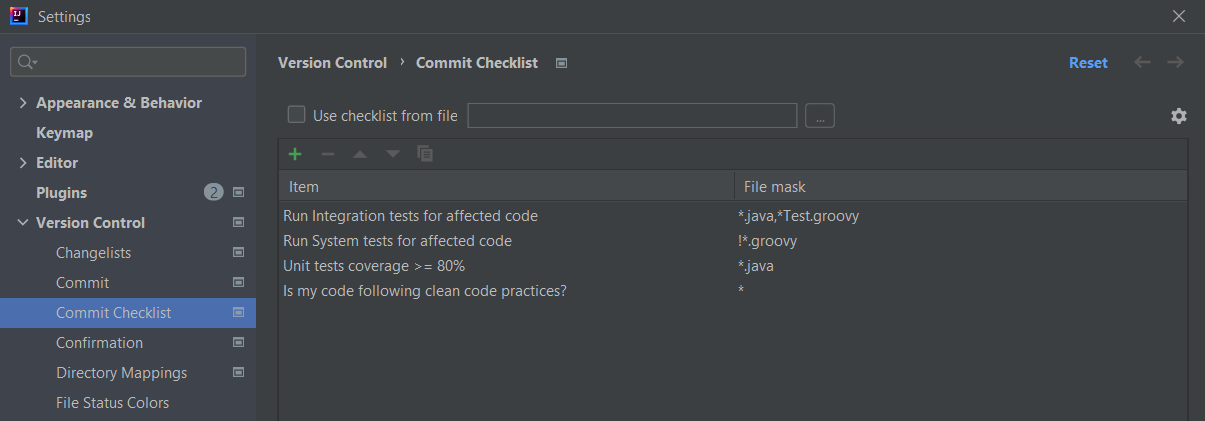
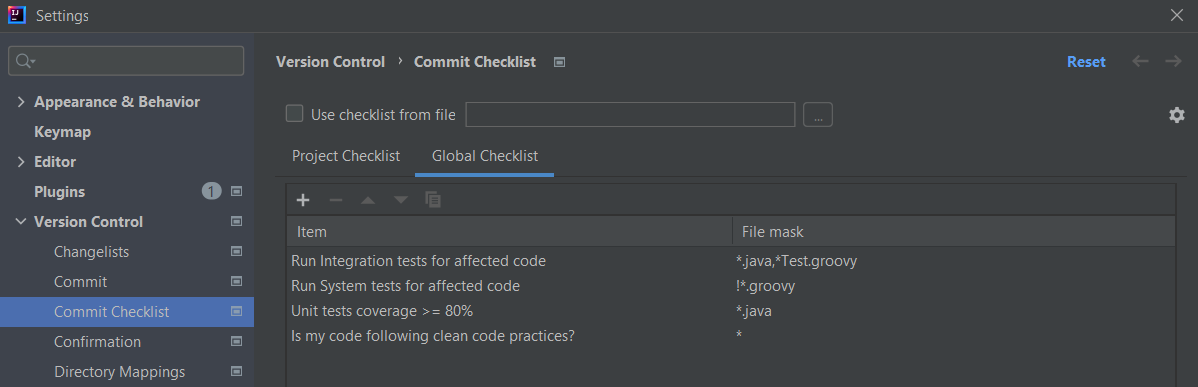
- Use global checklist when displaying items - Add tooltip to tabs - Update version, images, descriptions

diff --git a/src/main/java/brq/intellij/plugins/commit/checklist/settings/ui/SettingsTable.java b/src/main/java/brq/intellij/plugins/commit/checklist/settings/ui/SettingsTable.java
@@ -12,15 +12,14 @@ import java.util.stream.IntStream;
 
 import static brq.intellij.plugins.commit.checklist.settings.ui.EditableColumn.Column.FILE_MASK;
 import static brq.intellij.plugins.commit.checklist.settings.ui.EditableColumn.Column.VALUE;
+import static brq.intellij.plugins.commit.checklist.settings.ui.SettingsTable.Type.PROJECT;
 import static java.util.stream.Collectors.toList;
 
 public class SettingsTable extends TableModelEditor<MessageItem> {
-    private final String title;
     private final Type type;
 
-    public SettingsTable(String title, Type type, ColumnInfo @NotNull [] columns, @NotNull CollectionItemEditor<MessageItem> itemEditor, @NotNull @Nls(capitalization = Nls.Capitalization.Sentence) String emptyText) {
+    public SettingsTable(Type type, ColumnInfo @NotNull [] columns, @NotNull CollectionItemEditor<MessageItem> itemEditor, @NotNull @Nls(capitalization = Nls.Capitalization.Sentence) String emptyText) {
         super(columns, itemEditor, emptyText);
-        this.title = title;
         this.type = type;
     }
 
@@ -31,18 +30,22 @@ public class SettingsTable extends TableModelEditor<MessageItem> {
                 .collect(toList());
     }
 
+    boolean isProjectTable() {
+        return type == PROJECT;
+    }
+
     public String getTitle() {
-        return title;
+        return type.getTitle();
     }
 
-    public Type getType() {
-        return type;
+    public String getTooltip() {
+        return type.getTooltip();
     }
 
-    public static SettingsTable createTable(String title, Type type, List<MessageItem> checklist) {
+    public static SettingsTable createTable(Type type, List<MessageItem> checklist) {
         final ColumnInfo[] columns = getColumns();
         SettingsTableEditor editor = new SettingsTableEditor();
-        SettingsTable table = new SettingsTable(title, type, columns, editor, "");
+        SettingsTable table = new SettingsTable(type, columns, editor, "");
         checklist.forEach(i -> table.getModel().addRow(new MessageItem(i.getValue(), i.getFileMask())));
         return table;
     }
@@ -55,7 +58,24 @@ public class SettingsTable extends TableModelEditor<MessageItem> {
     }
 
     public enum Type {
-        PROJECT, GLOBAL
+        PROJECT("Project Checklist", "Project specific checklist"),
+        GLOBAL("Global Checklist", "IDE level checklist. Applied for all the projects");
+
+        final String title;
+        final String tooltip;
+
+        Type(String title, String tooltip) {
+            this.title = title;
+            this.tooltip = tooltip;
+        }
+
+        public String getTitle() {
+            return title;
+        }
+
+        public String getTooltip() {
+            return tooltip;
+        }
     }
 
 }

diff --git a/src/main/java/brq/intellij/plugins/commit/checklist/checkin/CommitChecklistHandler.java b/src/main/java/brq/intellij/plugins/commit/checklist/checkin/CommitChecklistHandler.java
@@ -3,6 +3,7 @@ package brq.intellij.plugins.commit.checklist.checkin;
 import brq.intellij.plugins.commit.checklist.settings.ImportSettingsResponse;
 import brq.intellij.plugins.commit.checklist.settings.ProjectSettings;
 import brq.intellij.plugins.commit.checklist.settings.MessageItem;
+import brq.intellij.plugins.commit.checklist.settings.Settings;
 import com.intellij.find.impl.FindInProjectUtil;
 import com.intellij.openapi.util.Condition;
 import com.intellij.openapi.vcs.CheckinProjectPanel;
@@ -51,6 +52,7 @@ public class CommitChecklistHandler extends CheckinHandler {
     @Nullable
     private List<String> getChecklist() {
         List<String> checklist;
+
         if (settings.isUseSettingsFromFile()) {
             ImportSettingsResponse response = importChecklist(settings.getSettingsFilePath());
             if (response.hasErrors()) {
@@ -62,7 +64,13 @@ public class CommitChecklistHandler extends CheckinHandler {
         } else {
             checklist = getUserDefinedChecklist(panel.getFiles());
         }
+
+        checklist.addAll(getGlobalChecklist());
         return checklist;
+    }
+
+    private List<String> getGlobalChecklist() {
+        return getMatchedChecklist(Settings.getInstance().getChecklistItems(), panel.getFiles());
     }
 
     @NotNull

diff --git a/src/main/java/brq/intellij/plugins/commit/checklist/settings/ui/SettingsTabbedPane.java b/src/main/java/brq/intellij/plugins/commit/checklist/settings/ui/SettingsTabbedPane.java
@@ -4,8 +4,6 @@ import com.intellij.ui.components.JBTabbedPane;
 
 import java.util.Arrays;
 
-import static brq.intellij.plugins.commit.checklist.settings.ui.SettingsTable.Type.PROJECT;
-
 public class SettingsTabbedPane extends JBTabbedPane {
     private final SettingsTable[] tables;
 
@@ -18,15 +16,18 @@ public class SettingsTabbedPane extends JBTabbedPane {
     }
 
     public void setProjectTableEnabled(boolean value) {
-        var projectTable = Arrays.stream(tables).filter(t -> t.getType() == PROJECT).findFirst();
+        var projectTable = Arrays.stream(tables).filter(SettingsTable::isProjectTable).findFirst();
         projectTable.ifPresent(e -> e.enabled(value));
     }
 
     public static SettingsTabbedPane create(SettingsTable... tables) {
         var panel = new SettingsTabbedPane(tables);
-        for (SettingsTable table : tables) {
+        for (int i = 0; i < tables.length; i++) {
+            SettingsTable table = tables[i];
             panel.addTab(table.getTitle(), table.createComponent());
+            panel.setToolTipTextAt(i, table.getTooltip());
         }
+
         return panel;
     }
 }

diff --git a/src/main/java/brq/intellij/plugins/commit/checklist/settings/ui/JPanelSettings.java b/src/main/java/brq/intellij/plugins/commit/checklist/settings/ui/JPanelSettings.java
@@ -16,8 +16,8 @@ public class JPanelSettings extends JPanel {
     private final JPanelFileSettingsArea settingsFileArea;
 
     private JPanelSettings(ProjectSettings projectSettings, Settings appSettings) {
-        projectTable = SettingsTable.createTable("Project Checklist", PROJECT, projectSettings.getChecklistItems());
-        globalTable = SettingsTable.createTable("Global Checklist", GLOBAL, appSettings.getChecklistItems());
+        projectTable = SettingsTable.createTable(PROJECT, projectSettings.getChecklistItems());
+        globalTable = SettingsTable.createTable(GLOBAL, appSettings.getChecklistItems());
         tablePanel = SettingsTabbedPane.create(projectTable, globalTable);
 
         settingsFileArea = JPanelFileSettingsArea.create(projectSettings, tablePanel);

diff --git a/src/main/java/brq/intellij/plugins/commit/checklist/checkin/CommitChecklistDialog.java b/src/main/java/brq/intellij/plugins/commit/checklist/checkin/CommitChecklistDialog.java
@@ -23,7 +23,6 @@ public class CommitChecklistDialog extends DialogWrapper {
     private JPanel dialogPanel;
 
     public CommitChecklistDialog(ProjectSettings settings, List<String> checklist) {
-        //todo add global checklist
         super(true);
         this.settings = settings;
         this.checklist = checklist;

diff --git a/README.md b/README.md
@@ -1,6 +1,6 @@
 # Commit Checklist Plugin
 
-Commit Checklist Plugin is a plugin for JetBrains IntelliJ IDEA, that can be used as a reminder for items that need to be fulfilled before committing changes.
+Commit Checklist Plugin is a plugin for JetBrains IntelliJ IDEA, that can be used to define own checklist of items that need to be covered before committing the changes, list of reminders to cover when committing.
 
 ![image info](screenshots/commit-dialog.png)
 

diff --git a/CHANGE_NOTES.md b/CHANGE_NOTES.md
@@ -1,5 +1,8 @@
 # Change Notes
 
+### v1.2.1
+- Introduce a mechanism of applying a Global checklist - checklist used for all the projects
+
 ### v1.2
 - Introduce importing & exporting checklist from / to a file.
 - Introduce a mechanism of creating checklist directly from a file.
